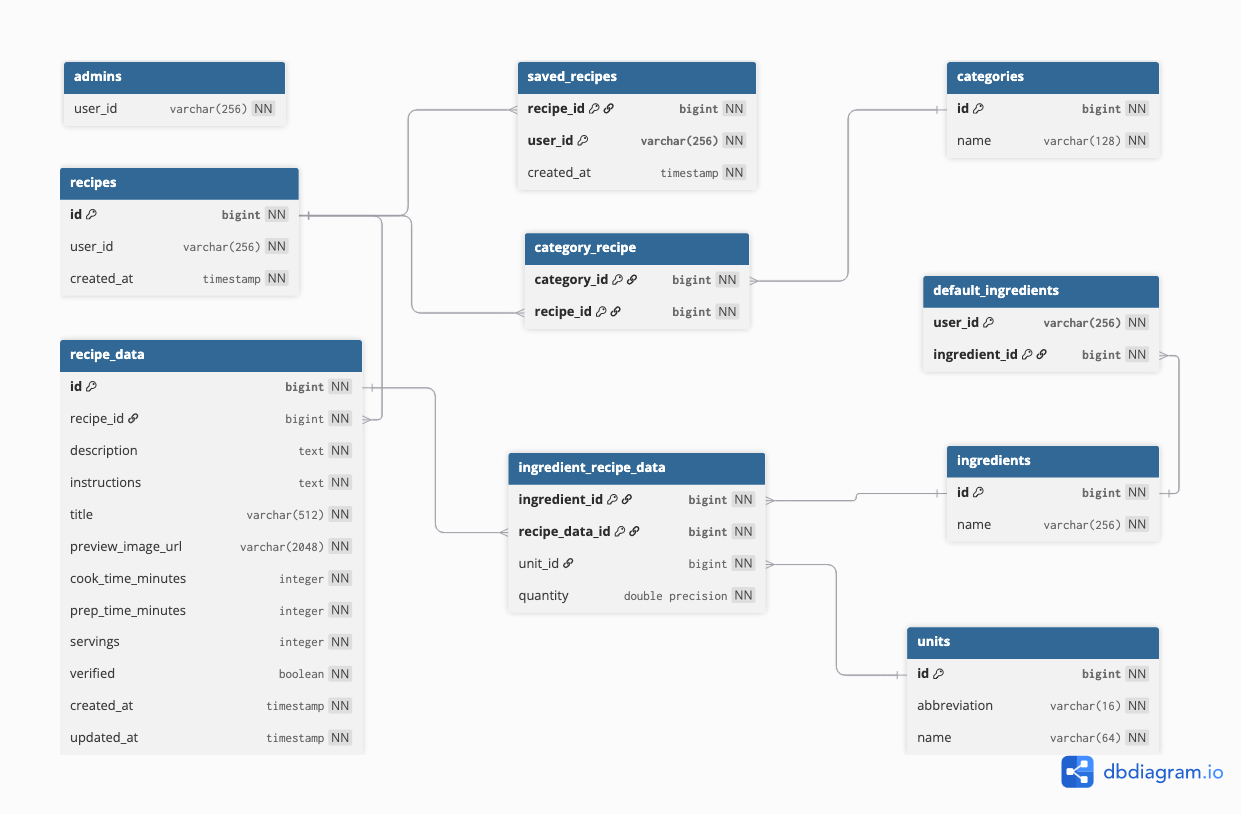
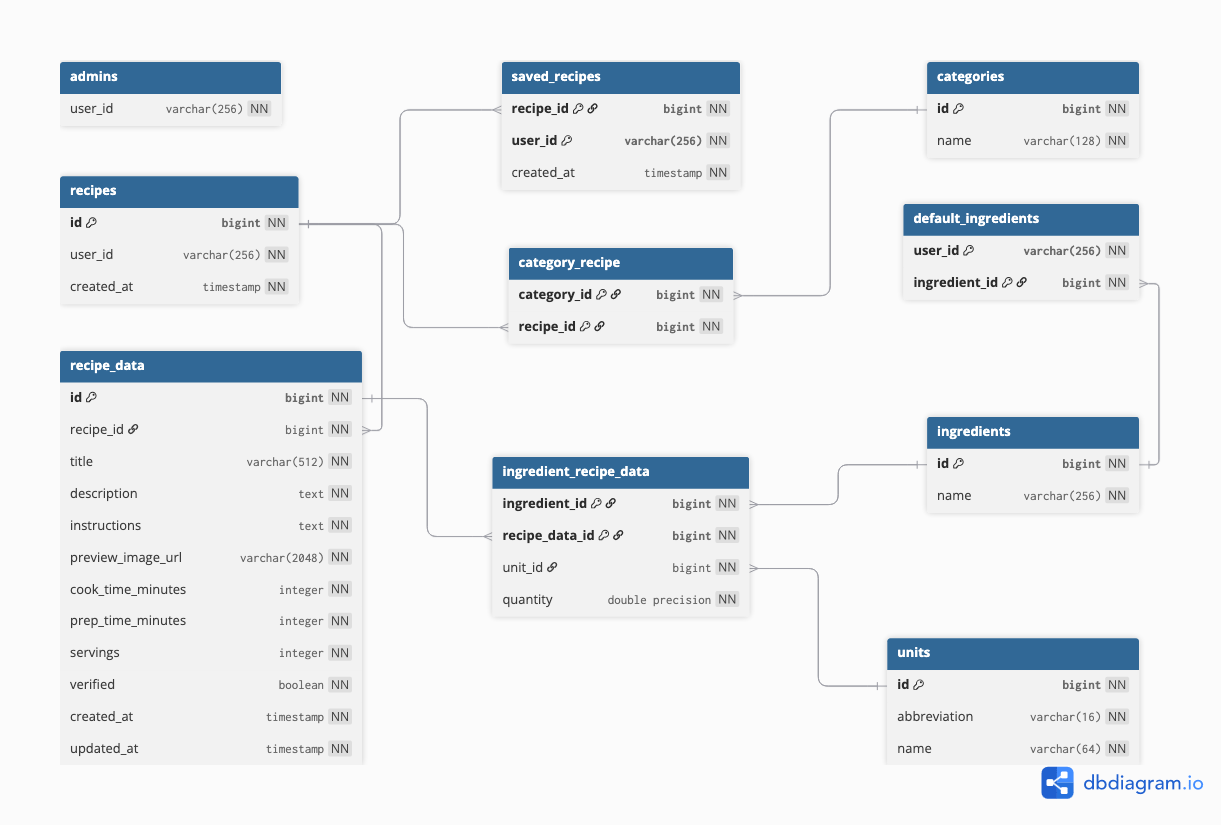
refactor: reorder format recipe object

diff --git a/web/scripts/seeders/seed-recipes.ts b/web/scripts/seeders/seed-recipes.ts
@@ -11,29 +11,40 @@ import {
   units,
 } from '~/server/db/schema';
 
-type RecipeConfig = {
-  categories: string[];
-  data: Omit<typeof recipeData.$inferInsert, 'recipeId'>;
-  ingredients: { name: string; quantity: number; unit: string }[];
+type Recipe = {
   userId: string;
+
+  data: Omit<typeof recipeData.$inferInsert, 'recipeId'>;
+
+  categories: string[];
+  ingredients: { name: string; quantity: number; unit: string }[];
 };
 
 const data = [
   {
-    categories: ['Desszert'],
+    userId: 'user_3CPE4WILkIU2vrqElJNKDPZ2GsH',
+
     data: {
-      cookTimeMinutes: 20,
+      title: 'Extra Rákóczi Túrós',
+
       description:
         'Mutatósabb egyfalatos rákóczi túrós ha kicsit mutatósabb sütit készítenétek\n\nKép forrása: Dobos Bea blogspot',
       instructions:
         'A tésztához a lisztet és a porcukrot elmorzsoljuk a vajjal majd egy tojás sárgájával összegyúrjuk. Hűtőben pihentetjük 30 percet.\nKinyújtjuk, köralakúra szaggatjuk, majd 180 C°-os sütőben 8-10 perc alatt készre sütjük.\nA túrókrémet jól kikeverjük (túró, 30 g porcukor, fél citrom leve és héja) majd a kisült linzer közepére kis halmokat teszünk belőle. \nA tojások fehérjét egy csipet sóval és a porcukorralv(210g) elkezdjük felverni majd vízgőz felett addig verjük, amíg fényes, sűrű habot kapunk. \nHabzsákba töltjük és a túró köré koszorúba nyomjuk, 150 C°-on  8-10 percig visszatesszük a sütőbe száradni.\nBaracklekvárt nyomunk a közepébe.',
-      prepTimeMinutes: 40,
+
       previewImageUrl:
         'https://blogger.googleusercontent.com/img/b/R29vZ2xl/AVvXsEiMSJHlCWFfubwILkjX9OehkuMC-lhazNTA0usf-_LiH1PHlpjNo81hhpwCVq-KUMyoXq1WIKAMAso9fD6R7iFJ8zI3K4nFNv-3osDOOMuHH6MhC5_r-l4w_GxmNtn9iPLySa3kV8FAz8E/s1600/R%25C3%25A1k%25C3%25B3czi+t%25C3%25BAr%25C3%25B3s+kos%25C3%25A1rka+%25284%2529.JPG',
+
+      cookTimeMinutes: 20,
+      prepTimeMinutes: 40,
+
       servings: 2,
-      title: 'Extra Rákóczi Túrós',
+
       verified: true,
     },
+
+    categories: ['Desszert'],
+
     ingredients: [
       { name: 'Búzaliszt', quantity: 300, unit: 'g' },
       { name: 'Vaj', quantity: 200, unit: 'g' },
@@ -43,22 +54,30 @@ const data = [
       { name: 'Citrom', quantity: 1, unit: 'db' },
       { name: 'Só', quantity: 1, unit: 'csipet' },
     ],
-    userId: 'user_3CPE4WILkIU2vrqElJNKDPZ2GsH',
   },
   {
-    categories: ['Tízórai/Snack'],
+    userId: 'user_3CPE4WILkIU2vrqElJNKDPZ2GsH',
+
     data: {
-      cookTimeMinutes: 20,
+      title: 'Sajtos-köményes ropi',
+
       description:
         'Sós aprósütemény bármilyen alkalomra, akár nagy adagban elkészítve, majd fagyasztóban tárolva váratlan vendégek esetén.',
       instructions:
         'A sajtot lereszeljük és kettéosztjuk. \nA sajt egyik részén egy tojáson és a köménymagon kívül mindent összegyúrunk, majd ha egységes tésztát kaptunk legalább 30 percet fagyasztóban pihentetjük. \n3-4mm vastagra nyújtjuk a tésztát majd a maradék egy tojást felverjük és lekenjük vele a tésztát.\nEzután megszórjuk sajttal és köménymaggal, majd ízlés szerinti vastagságú rudakat vágunk belőle.\n\n200C°-os előmelegített sütőben 10-15 perc alatt aranybarnára sütjük.',
-      prepTimeMinutes: 30,
+
       previewImageUrl: 'https://www.facebook.com/24658824-28b9-4ce3-91fa-0732fde567ba',
+
+      cookTimeMinutes: 20,
+      prepTimeMinutes: 30,
+
       servings: 1,
-      title: 'Sajtos-köményes ropi',
+
       verified: true,
     },
+
+    categories: ['Tízórai/Snack'],
+
     ingredients: [
       { name: 'Vaj', quantity: 200, unit: 'g' },
       { name: 'Búzaliszt', quantity: 250, unit: 'g' },
@@ -68,21 +87,29 @@ const data = [
       { name: 'Köménymag', quantity: 2, unit: 'ek' },
       { name: 'Tojás', quantity: 2, unit: 'db' },
     ],
-    userId: 'user_3CPE4WILkIU2vrqElJNKDPZ2GsH',
   },
   {
-    categories: ['Desszert'],
+    userId: 'user_3CPE4WILkIU2vrqElJNKDPZ2GsH',
+
     data: {
-      cookTimeMinutes: 5,
+      title: 'Alap nudli és gombóctészta',
+
       description: 'Családi recept, több generáció dolgozta tökéletesre.',
       instructions:
         'A krumplit puhára főzzük, majd meghámozzuk (ha főzés előtt még nem tettük) majd összetörjük. Hozzáadjuk a lisztet, ha még ragacsosnak érezzük a tésztát tegyünk annyi lisztet bele amennyit felvesz.\nA morzsához megpirítjuk a morzsát a cukorral folyamatos kevergetés mellett, csak a végén adjuk hozzá a fahéjat.\nA nudlihoz kis rudakat vágunk a tésztából, lobogó vízben főzzük amíg a felszínre nem jönnek. Ezután megforgathatjuk a morzsában.\n\nA gombócokhoz köralakúra szaggatjuk a tésztát, tölthetjük szilvával, sárgabarackkal, akár lekvárral. Gombócozás után ezt is lobogó vízben kell főzni amíg a felszínre nem úsznak, utána ezt is forgassuk meg a morzsában és kész is.',
-      prepTimeMinutes: 30,
+
       previewImageUrl: 'https://images.pexels.com/photos/34938281/pexels-photo-34938281.jpeg',
+
+      cookTimeMinutes: 5,
+      prepTimeMinutes: 30,
+
       servings: 2,
-      title: 'Alap nudli és gombóctészta',
+
       verified: true,
     },
+
+    categories: ['Desszert'],
+
     ingredients: [
       { name: 'Búzaliszt', quantity: 500, unit: 'g' },
       { name: 'Burgonya', quantity: 250, unit: 'g' },
@@ -90,21 +117,29 @@ const data = [
       { name: 'Panírmorzsa', quantity: 100, unit: 'g' },
       { name: 'Cukor', quantity: 70, unit: 'g' },
     ],
-    userId: 'user_3CPE4WILkIU2vrqElJNKDPZ2GsH',
   },
   {
-    categories: ['Desszert'],
+    userId: 'user_3CPE4WILkIU2vrqElJNKDPZ2GsH',
+
     data: {
-      cookTimeMinutes: 45,
+      title: 'Császármorzsa',
+
       description: 'Egyszerű és gyors császármorzsa',
       instructions:
         'A vajat megolvasztjuk, tojást a cukorral kikeverjük majd hozzáadjuk a vajat citromhéjat és a tejet. Ha ezeket összekevertük 2-3 részletben keverjük hozzá a lisztet. Zománcolt tepsiben, előmelegített sütőben sütjük 180 C°-on amíg kérgesedik az alja. Ezután kivesszük, kisebb darabokra törjük a tésztát és készre sütjük.',
-      prepTimeMinutes: 15,
+
       previewImageUrl: 'https://images.pexels.com/photos/19772138/pexels-photo-19772138.jpeg',
+
+      cookTimeMinutes: 45,
+      prepTimeMinutes: 15,
+
       servings: 3,
-      title: 'Császármorzsa',
+
       verified: true,
     },
+
+    categories: ['Desszert'],
+
     ingredients: [
       { name: 'Búzaliszt', quantity: 300, unit: 'g' },
       { name: 'Tojás', quantity: 6, unit: 'db' },
@@ -112,21 +147,29 @@ const data = [
       { name: 'Tej', quantity: 2, unit: 'dl' },
       { name: 'Vaj', quantity: 100, unit: 'g' },
     ],
-    userId: 'user_3CPE4WILkIU2vrqElJNKDPZ2GsH',
   },
   {
-    categories: ['Saláta', 'Köret'],
+    userId: 'user_3CPE4WILkIU2vrqElJNKDPZ2GsH',
+
     data: {
-      cookTimeMinutes: 0,
+      title: 'Görög saláta',
+
       description: 'Könnyed saláta ha elegünk lenne a húsokból.',
       instructions:
         'A zöldségeket ízlés szerinti méretre vágjuk majd egy nagy tálba tesszük.\nRámorzsoljuk a feta sajtot és állni hagyjuk míg előkészítjük a friss fűszereket.\nA petrezselymet és a mentát apróra vágjuk, kifacsarjuk a fél citrom levét.\nHozzáadjuk a salátához a mentát, petrezselymet és a citrom levét, illetve a sót, borsot, olajat. \nAlaposan összekeverjük és tálalhatjuk is.',
-      prepTimeMinutes: 15,
+
       previewImageUrl: 'https://images.pexels.com/photos/14016727/pexels-photo-14016727.jpeg',
+
+      cookTimeMinutes: 0,
+      prepTimeMinutes: 15,
+
       servings: 2,
-      title: 'Görög saláta',
+
       verified: true,
     },
+
+    categories: ['Saláta', 'Köret'],
+
     ingredients: [
       { name: 'Paradicsom', quantity: 3, unit: 'db' },
       { name: 'Uborka', quantity: 1, unit: 'db' },
@@ -139,21 +182,29 @@ const data = [
       { name: 'Petrezselyem', quantity: 1, unit: 'csomag' },
       { name: 'Menta', quantity: 1, unit: 'csomag' },
     ],
-    userId: 'user_3CPE4WILkIU2vrqElJNKDPZ2GsH',
   },
   {
-    categories: ['Reggeli', 'Tízórai/Snack'],
+    userId: 'user_3CPE4WILkIU2vrqElJNKDPZ2GsH',
+
     data: {
-      cookTimeMinutes: 10,
+      title: 'Shakshuka',
+
       description: 'Török lecsó reggelire',
       instructions:
         'Első lépésként a paradicsomokat felkockázzuk majd serpenyőben, alacsony lángon pirítani kezdjük. \nKözben felaprítjuk a hagymát és a többi zöldséget is. A fokhagymát össze is zúzhatjuk, viszont így megbontjuk azokat a rostokat amelyeket ha késsel vágnánk fel, nem bántanánk. (Zúzás hatására kellemetlenebb lehet a leheltünk.)\nHa már engedett egy kevés levet a paradicsom hozzáadjuk a vöröshagymát, majd üvegesre pároljuk. Ezután mehet bele a fokhagyma, végül a paprika.\nHa az összes zöldség összeesett, fűszerezzük, és keverjük hozzá a paradicsompürét is. Hagyjuk rotyogni (továbbra is alacsony lángon) néhány percig vagy amíg szimpatikus állagú nem lesz. \nHa elértük a kívánt állagot, fakanállal csináljunk helyet a tojásoknak majd üssük bele őket és fedjük le egy fedővel. Folyósabb tojásért amint látjuk hogy a tojás a tetején már fehér, zárjuk el a gázt, pirítsunk hozzá kenyeret, szórjuk meg petrezselyemmel és kaporral, esetleg egy kevés chili olajjal. Máris fogyaszthatjuk, egészségünkre!',
-      prepTimeMinutes: 10,
+
       previewImageUrl: 'https://images.pexels.com/photos/9027325/pexels-photo-9027325.jpeg',
+
+      cookTimeMinutes: 10,
+      prepTimeMinutes: 10,
+
       servings: 2,
-      title: 'Shakshuka',
+
       verified: true,
     },
+
+    categories: ['Reggeli', 'Tízórai/Snack'],
+
     ingredients: [
       { name: 'Paradicsom', quantity: 2, unit: 'db' },
       { name: 'Paprika', quantity: 2, unit: 'dl' },
@@ -165,21 +216,29 @@ const data = [
       { name: 'Fokhagyma', quantity: 2, unit: 'gerezd' },
       { name: 'Petrezselyem', quantity: 1, unit: 'csomag' },
     ],
-    userId: 'user_3CPE4WILkIU2vrqElJNKDPZ2GsH',
   },
   {
-    categories: ['Reggeli', 'Tízórai/Snack', 'Előétel', 'Főétel'],
+    userId: 'user_3CPE4WILkIU2vrqElJNKDPZ2GsH',
+
     data: {
-      cookTimeMinutes: 45,
+      title: 'Görög spenótos pite',
+
       description: 'Autentikus görög recept a mindennapokra',
       instructions:
         'Először kevés olajon megpirítjuk az összezúzott fokhagymákat majd ráöntjük a spenótot sózzuk, borsozzuk és hagyjuk hogy megfonnyadjon majd a karikázott póréhagymát is hozzátesszük. \nKözben előkészítünk egy piteformát amibe egyenként beletesszük a réteslapok felét, laponként olajjal vagy vízzel (attól függően hogy diétázunk-e éppen :D) megkenjük.\nHa a lapok fele elfogyott, beletesszük a fokhagymás spenótos-hagymás keveréket, felverjük a tojásokat és azt is ráöntjük. \nVégül ahogy korábban is rátesszük a maradék réteslapot, laponként megkenjük, a tetejét is, majd 180 C°-os sütőben kb. 45 perc alatt készre sütjük',
-      prepTimeMinutes: 20,
+
       previewImageUrl: 'https://images.pexels.com/photos/30674035/pexels-photo-30674035.jpeg',
+
+      cookTimeMinutes: 45,
+      prepTimeMinutes: 20,
+
       servings: 3,
-      title: 'Görög spenótos pite',
+
       verified: true,
     },
+
+    categories: ['Reggeli', 'Tízórai/Snack', 'Előétel', 'Főétel'],
+
     ingredients: [
       { name: 'Spenót', quantity: 1, unit: 'csomag' },
       { name: 'Feta sajt', quantity: 200, unit: 'g' },
@@ -190,9 +249,8 @@ const data = [
       { name: 'Fokhagyma', quantity: 4, unit: 'gerezd' },
       { name: 'Olívaolaj', quantity: 5, unit: 'cl' },
     ],
-    userId: 'user_3CPE4WILkIU2vrqElJNKDPZ2GsH',
   },
-] satisfies RecipeConfig[];
+] satisfies Recipe[];
 
 export async function seedRecipes() {
   console.log('⏳ Seeding recipes...');

diff --git a/web/src/components/recipe-form.tsx b/web/src/components/recipe-form.tsx
@@ -32,13 +32,40 @@ import {
 } from '~/lib/zod';
 
 const formSchema = z.object({
-  categories: z.array(z.number().int().positive()).min(1, {
-    error: 'Válassz legalább egy kategóriát!',
-  }),
+  title: z
+    .string()
+    .trim()
+    .min(1, { error: 'Add meg a recept nevét!' })
+    .max(512, { error: 'A recept neve legfeljebb 512 karakter lehet!' }),
+
+  description: z.string().trim().min(1, { error: 'Add meg a recept leírását!' }),
+  instructions: z.string().trim().min(1, { error: 'Add meg az elkészítési utasításokat!' }),
+
+  previewImageUrl: z
+    .url({ error: 'Adj meg egy érvényes URL-t!' })
+    .trim()
+    .max(2048, {
+      error: 'Az URL hossza legfeljebb 2048 karakter lehet!',
+    })
+    .refine((url) => url.startsWith('https://'), {
+      error: 'Az URL-nek https:// előtaggal kell kezdődnie!',
+    }),
+
   cookTimeMinutes: z.string().trim().refine(isNonNegativeIntegerString, {
     error: 'A főzési/sütési idő csak természetes szám lehet!',
   }),
-  description: z.string().trim().min(1, { error: 'Add meg a recept leírását!' }),
+  prepTimeMinutes: z.string().trim().refine(isNonNegativeIntegerString, {
+    error: 'Az előkészítési idő csak természetes szám lehet!',
+  }),
+
+  servings: z.string().trim().refine(isPositiveIntegerString, {
+    error: 'Az adagok száma csak pozitív egész szám lehet!',
+  }),
+
+  categories: z.array(z.number().int().positive()).min(1, {
+    error: 'Válassz legalább egy kategóriát!',
+  }),
+
   ingredients: z
     .array(
       z.object({
@@ -57,27 +84,6 @@ const formSchema = z.object({
       }),
     )
     .min(1, { error: 'Adj hozzá legalább egy hozzávalót!' }),
-  instructions: z.string().trim().min(1, { error: 'Add meg az elkészítési utasításokat!' }),
-  prepTimeMinutes: z.string().trim().refine(isNonNegativeIntegerString, {
-    error: 'Az előkészítési idő csak természetes szám lehet!',
-  }),
-  previewImageUrl: z
-    .url({ error: 'Adj meg egy érvényes URL-t!' })
-    .trim()
-    .max(2048, {
-      error: 'Az URL hossza legfeljebb 2048 karakter lehet!',
-    })
-    .refine((url) => url.startsWith('https://'), {
-      error: 'Az URL-nek https:// előtaggal kell kezdődnie!',
-    }),
-  servings: z.string().trim().refine(isPositiveIntegerString, {
-    error: 'Az adagok száma csak pozitív egész szám lehet!',
-  }),
-  title: z
-    .string()
-    .trim()
-    .min(1, { error: 'Add meg a recept nevét!' })
-    .max(512, { error: 'A recept neve legfeljebb 512 karakter lehet!' }),
 });
 
 type FormSchema = z.infer<typeof formSchema>;

diff --git a/web/src/lib/zod/schemas.ts b/web/src/lib/zod/schemas.ts
@@ -99,9 +99,10 @@ export const recipeDataSchema = z.object({
   id: z.number().int().positive(),
   recipeId: z.number().int().positive(),
 
+  title: z.string().trim().min(1).max(512),
+
   description: z.string().trim().min(1),
   instructions: z.string().trim().min(1),
-  title: z.string().trim().min(1).max(512),
 
   previewImageUrl: z.url().trim().max(2048),
 
@@ -155,9 +156,10 @@ export const savedRecipeIdsSchema = z.array(
 export type SavedRecipeIds = z.infer<typeof savedRecipeIdsSchema>;
 
 export const createUpdateRecipeSchema = z.object({
+  title: z.string().trim().min(1).max(512),
+
   description: z.string().trim().min(1),
   instructions: z.string().trim().min(1),
-  title: z.string().trim().min(1).max(512),
 
   previewImageUrl: z
     .url()

diff --git a/web/src/server/db/schema.ts b/web/src/server/db/schema.ts
@@ -21,9 +21,10 @@ export const recipeData = pgTable(
       .notNull()
       .references(() => recipes.id, { onDelete: 'cascade', onUpdate: 'cascade' }),
 
+    title: d.varchar('title', { length: 512 }).notNull(),
+
     description: d.text('description').notNull(),
     instructions: d.text('instructions').notNull(),
-    title: d.varchar('title', { length: 512 }).notNull(),
 
     previewImageUrl: d.varchar('preview_image_url', { length: 2048 }).notNull(),
 

diff --git a/web/src/app/_edit-page.tsx b/web/src/app/_edit-page.tsx
@@ -21,9 +21,10 @@ export async function EditPage({ params }: { params: Promise<{ id: string }> }) 
   if (!isAdmin && author.id !== userId) notFound();
 
   const defaultValues = {
+    title: recipeData.title,
+
     description: recipeData.description,
     instructions: recipeData.instructions,
-    title: recipeData.title,
 
     previewImageUrl: recipeData.previewImageUrl,
 

diff --git a/web/tests/helpers/seed.ts b/web/tests/helpers/seed.ts
@@ -88,6 +88,7 @@ export const SAMPLE_RECIPE_DATA = {
 
   cookTimeMinutes: 30,
   prepTimeMinutes: 15,
+
   servings: 4,
 
   verified: true,
